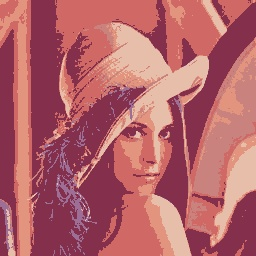
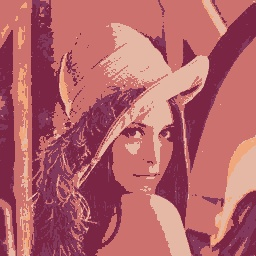
Added parameter change for FA

diff --git a/main.py b/main.py
@@ -46,7 +46,7 @@ def main(img_name,num_clusters,algorithm):
 if __name__ == '__main__':
     ## Input image and number of clusters
     input_dict = {0:['lena', 6], 1:['tiger',8], 2:['cameraman', 4], 3:['coins', 2]} # .jpg images
-    img_idx = 1 # (Change this line to use different images)
+    img_idx = 0 # (Change this line to use different images)
     img_name = input_dict[img_idx][0] # lena, cameraman, coins
     num_clusters = input_dict[img_idx][1] # 6 for lena, 4 for cameraman, 2 for coins 
     
@@ -61,7 +61,7 @@ if __name__ == '__main__':
                  'PSO'   : {'name':'PSO', 'alpha':1.5, 'beta':0.5, 'pop_size':20, 'iter':50, 'clusters': num_clusters},
                  'DE'    : {'name':'DE', 'F':1.0, 'Cr':0.5, 'pop_size':20, 'iter':50, 'clusters': num_clusters},
                  'SA'    : {'name':'SA', 'init_temp':10, 'beta':0.8, 'iter':1000, 'clusters': num_clusters}, # 1000 iters to be fair against pop based algos (20x50)
-                 'FA'    : {'name':'FA', 'gamma':1, 'alpha':0.1, 'beta':1, 'pop_size':20, 'iter':50, 'clusters': num_clusters},
+                 'FA'    : {'name':'FA', 'gamma':0.0001, 'alpha':0.1, 'beta':1, 'pop_size':20, 'iter':50, 'clusters': num_clusters},
                  'BA'    : {'name':'BA', 'alpha':0.8, 'gamma':0.9, 'pop_size':20, 'iter':50, 'clusters': num_clusters}
                 }
 
